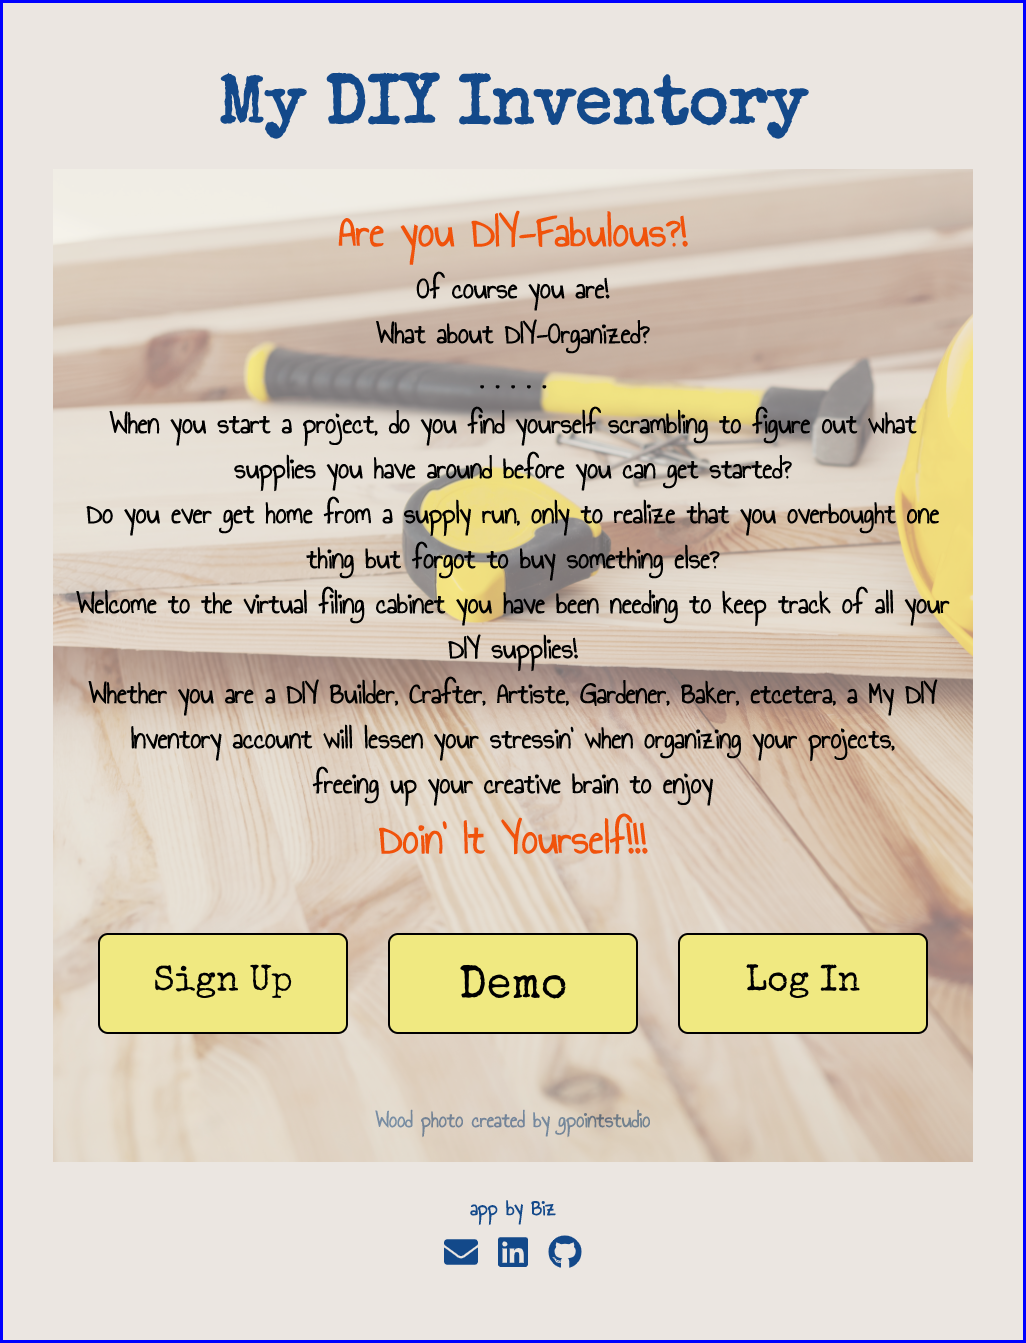
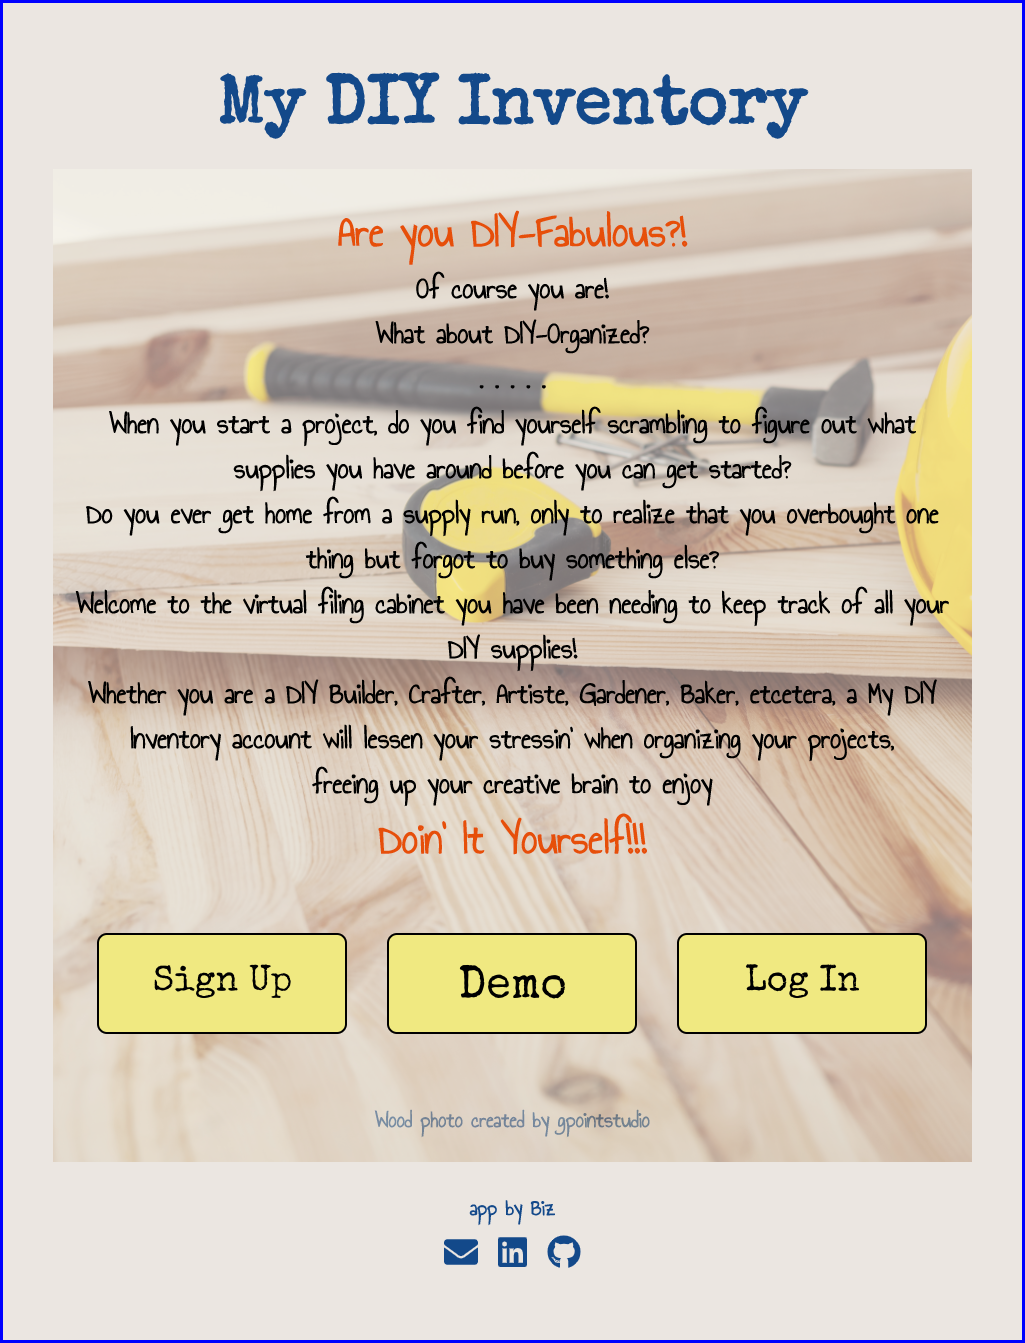
comment out media query frame colors

diff --git a/src/App.css b/src/App.css
@@ -524,7 +524,7 @@ This is the ideal way to built websites because it is much easier to adapt from 
 /*iPhone portrait*/
 @media only screen and (min-width: 320px) {
     body {
-        border: 3px solid purple;
+        /* border: 3px solid purple; */
         font-size: 20px;
     }
 
@@ -594,7 +594,7 @@ This is the ideal way to built websites because it is much easier to adapt from 
 /*iPhone landscape*/
 @media only screen and (min-width: 480px) {
     body {
-        border: 3px solid green;
+        /* border: 3px solid green; */
         font-size: 24px;
     }
 
@@ -608,7 +608,7 @@ This is the ideal way to built websites because it is much easier to adapt from 
 /*Android landscape*/
 @media only screen and (min-width: 640px) {
     body {
-        border: 3px solid pink;
+        /* border: 3px solid pink; */
         font-size: 26px;
     }
 
@@ -629,7 +629,7 @@ This is the ideal way to built websites because it is much easier to adapt from 
 /*iPad potrait*/
 @media only screen and (min-width: 768px) {
     body {
-        border: 3px solid red;
+        /* border: 3px solid red; */
     }
 
     div.landing-buttons {
@@ -661,7 +661,7 @@ This is the ideal way to built websites because it is much easier to adapt from 
 /*iPad landscape / small laptop*/
 @media only screen and (min-width: 1024px) {
     body {
-        border: 3px solid blue;
+        /* border: 3px solid blue; */
         font-size: 30px;
     }
 
@@ -682,9 +682,9 @@ This is the ideal way to built websites because it is much easier to adapt from 
 }
 
 /*large desktop*/
-@media only screen and (min-width: 1600px) {
+/* @media only screen and (min-width: 1600px) {
     body {
-        border: 3px solid yellow;
+        /* border: 3px solid yellow; */
     }
 
-}
+} */
